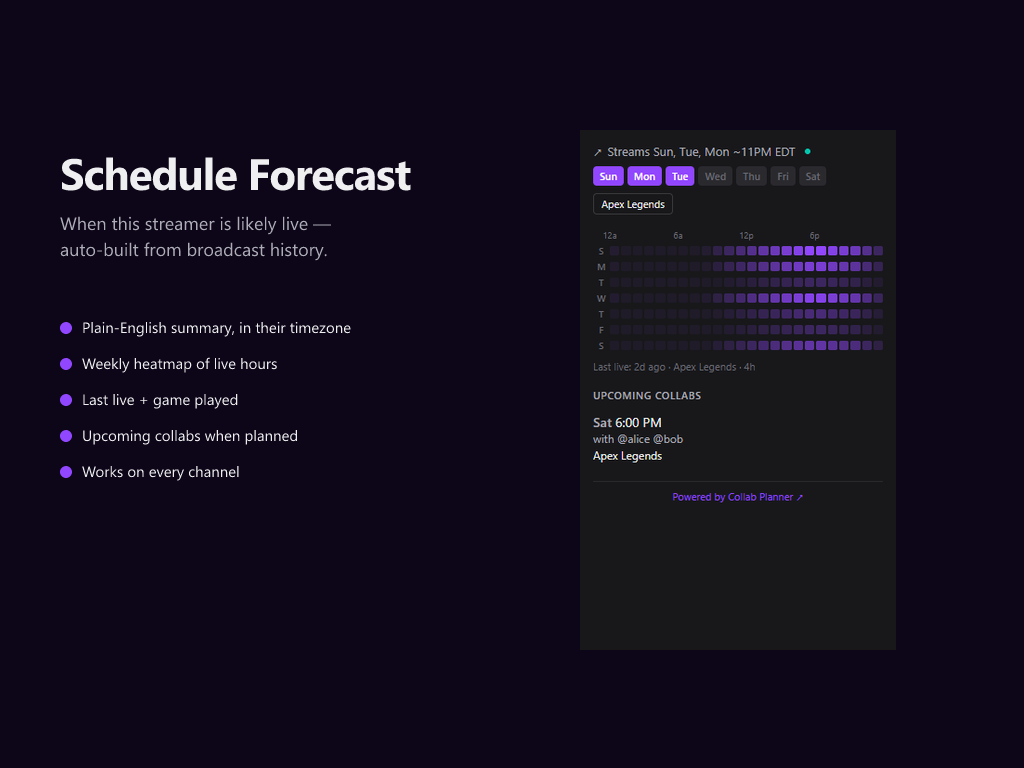
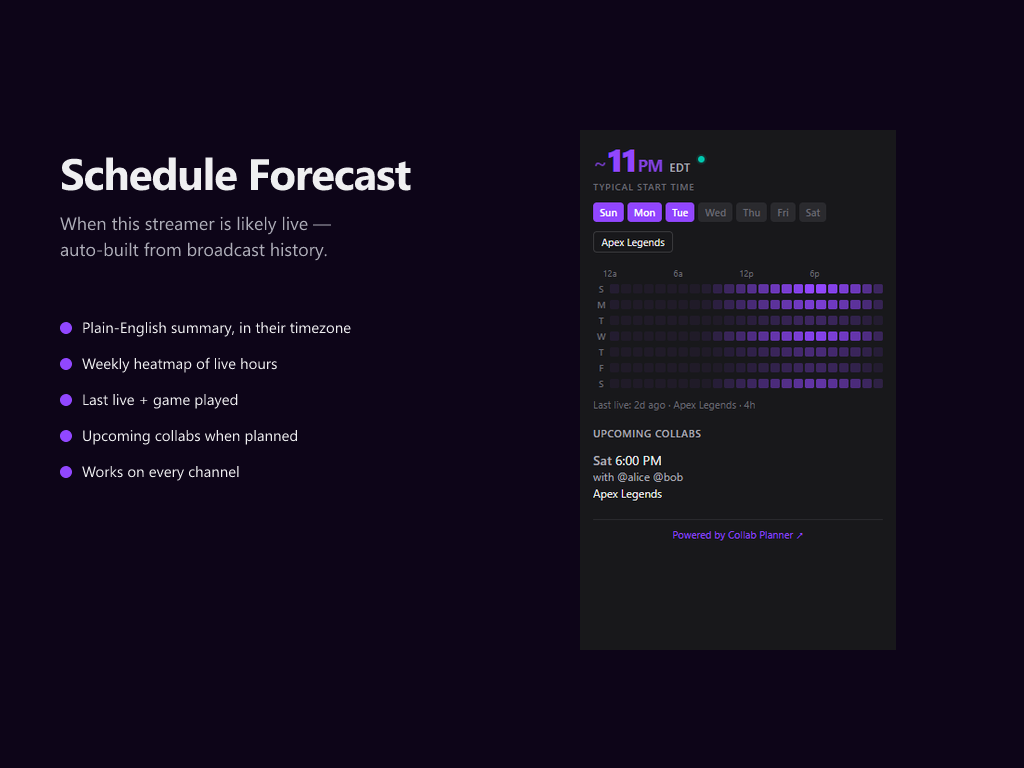
ext: 0.6.0 — start-time hero, drop redundant day-name text
The schedule summary previously read 'Streams Mon, Wed, Sun ~8PM EDT'
which duplicated the day chips immediately below. Replace the text line
with a hero start-time display: large accent-colored '~11PM EDT' with a
small 'TYPICAL START TIME' caption underneath. Days are conveyed by the
chip row alone. Posted-schedule indicator becomes a slightly larger teal
dot next to the time. Time is now the visual anchor of the panel.

diff --git a/twitch-extension/src/components/ScheduleSummary.tsx b/twitch-extension/src/components/ScheduleSummary.tsx
@@ -9,42 +9,43 @@ interface Props {
 
 const DAYS = ["Sun", "Mon", "Tue", "Wed", "Thu", "Fri", "Sat"];
 
-function formatHourInTz(hour: number, tz: string): string {
+function clockParts(hour: number): { h: number; ampm: "AM" | "PM" } {
   // The hour value is already in the broadcaster's timezone (server-computed).
-  // Compute AM/PM and 12-hour clock from the hour directly — do NOT use Intl
-  // for AM/PM, because the UTC-to-tz conversion would shift the time and
-  // cross the AM/PM boundary in many cases.
-  const ampm = hour >= 12 ? "PM" : "AM";
-  const h12 = hour % 12 || 12;
+  // AM/PM is derived directly from the local hour — do NOT use Intl for it,
+  // because UTC→tz shift can flip the period in many cases.
+  return { h: hour % 12 || 12, ampm: hour >= 12 ? "PM" : "AM" };
+}
 
-  // Use Intl only to extract the short TZ name for the broadcaster's zone.
-  // Reference any in-zone date; the value just needs to be inside the zone.
-  let tzShort = "";
+function tzShortName(tz: string): string {
   try {
-    const ref = new Date();
     const fmt = new Intl.DateTimeFormat("en-US", { timeZone: tz, timeZoneName: "short" });
-    const parts = fmt.formatToParts(ref);
-    tzShort = parts.find((p) => p.type === "timeZoneName")?.value ?? "";
+    const parts = fmt.formatToParts(new Date());
+    return parts.find((p) => p.type === "timeZoneName")?.value ?? "";
   } catch {
-    // Invalid TZ — omit the label.
+    return "";
   }
-
-  return tzShort ? `~${h12}${ampm} ${tzShort}` : `~${h12}${ampm}`;
 }
 
 export function ScheduleSummary({ summary, showGame }: Props) {
   const { topDays, medianHour, tz, topGame, isEstimate, hasPostedSchedule } = summary;
-  const timeLabel = formatHourInTz(medianHour, tz);
-  const lead = isEstimate ? "Est." : "Streams";
-  const daysJoined = topDays.length > 0 ? topDays.join(", ") : "various days";
+  const { h, ampm } = clockParts(medianHour);
+  const tzShort = tzShortName(tz);
+  const caption = isEstimate ? "Estimated start time" : "Typical start time";
 
   return (
     <div className="schedule">
-      <div className="schedule-line">
-        <span className="trend-arrow" aria-hidden="true">↗</span>
-        <span>{lead} {daysJoined} {timeLabel}</span>
-        {hasPostedSchedule && <span className="posted-dot" title="Has posted Twitch schedule" />}
+      <div className="schedule-hero">
+        <span className="schedule-time">
+          <span className="schedule-time-tilde">~</span>
+          <span className="schedule-time-h">{h}</span>
+          <span className="schedule-time-ampm">{ampm}</span>
+        </span>
+        {tzShort && <span className="schedule-time-tz">{tzShort}</span>}
+        {hasPostedSchedule && (
+          <span className="posted-dot" title="Has posted Twitch schedule" />
+        )}
       </div>
+      <div className="schedule-caption">{caption}</div>
 
       <div className="day-chips">
         {DAYS.map((d) => (

diff --git a/twitch-extension/src/styles.css b/twitch-extension/src/styles.css
@@ -16,27 +16,59 @@ body {
 .schedule {
   display: flex;
   flex-direction: column;
-  gap: 8px;
+  gap: 10px;
 }
-.schedule-line {
+
+/* Hero start-time display — the most important number on the panel. */
+.schedule-hero {
   display: flex;
-  align-items: center;
-  gap: 6px;
-  font-size: 13px;
-  color: #adadb8;
-}
-.trend-arrow {
-  color: #adadb8;
-  font-size: 13px;
+  align-items: baseline;
+  gap: 8px;
   line-height: 1;
+}
+.schedule-time {
+  font-size: 34px;
+  font-weight: 800;
+  letter-spacing: -0.03em;
+  color: var(--accent);
+  font-feature-settings: "tnum" 1;
+  line-height: 1;
+}
+.schedule-time-tilde {
+  font-size: 22px;
+  font-weight: 600;
+  margin-right: 1px;
+  vertical-align: 2px;
+  opacity: 0.7;
+}
+.schedule-time-ampm {
+  font-size: 18px;
+  font-weight: 700;
+  margin-left: 2px;
+  opacity: 0.85;
+}
+.schedule-time-tz {
+  font-size: 12px;
+  font-weight: 600;
+  color: #adadb8;
+  letter-spacing: 0.04em;
+}
+.schedule-caption {
+  font-size: 10px;
+  font-weight: 600;
+  color: #6b6b75;
+  text-transform: uppercase;
+  letter-spacing: 0.08em;
+  margin-top: -4px;
 }
 .posted-dot {
   display: inline-block;
-  width: 6px;
-  height: 6px;
+  width: 7px;
+  height: 7px;
   border-radius: 50%;
   background: #00c8af;
-  margin-left: 4px;
+  box-shadow: 0 0 0 2px rgba(0, 200, 175, 0.15);
+  align-self: center;
 }
 .day-chips {
   display: flex;
